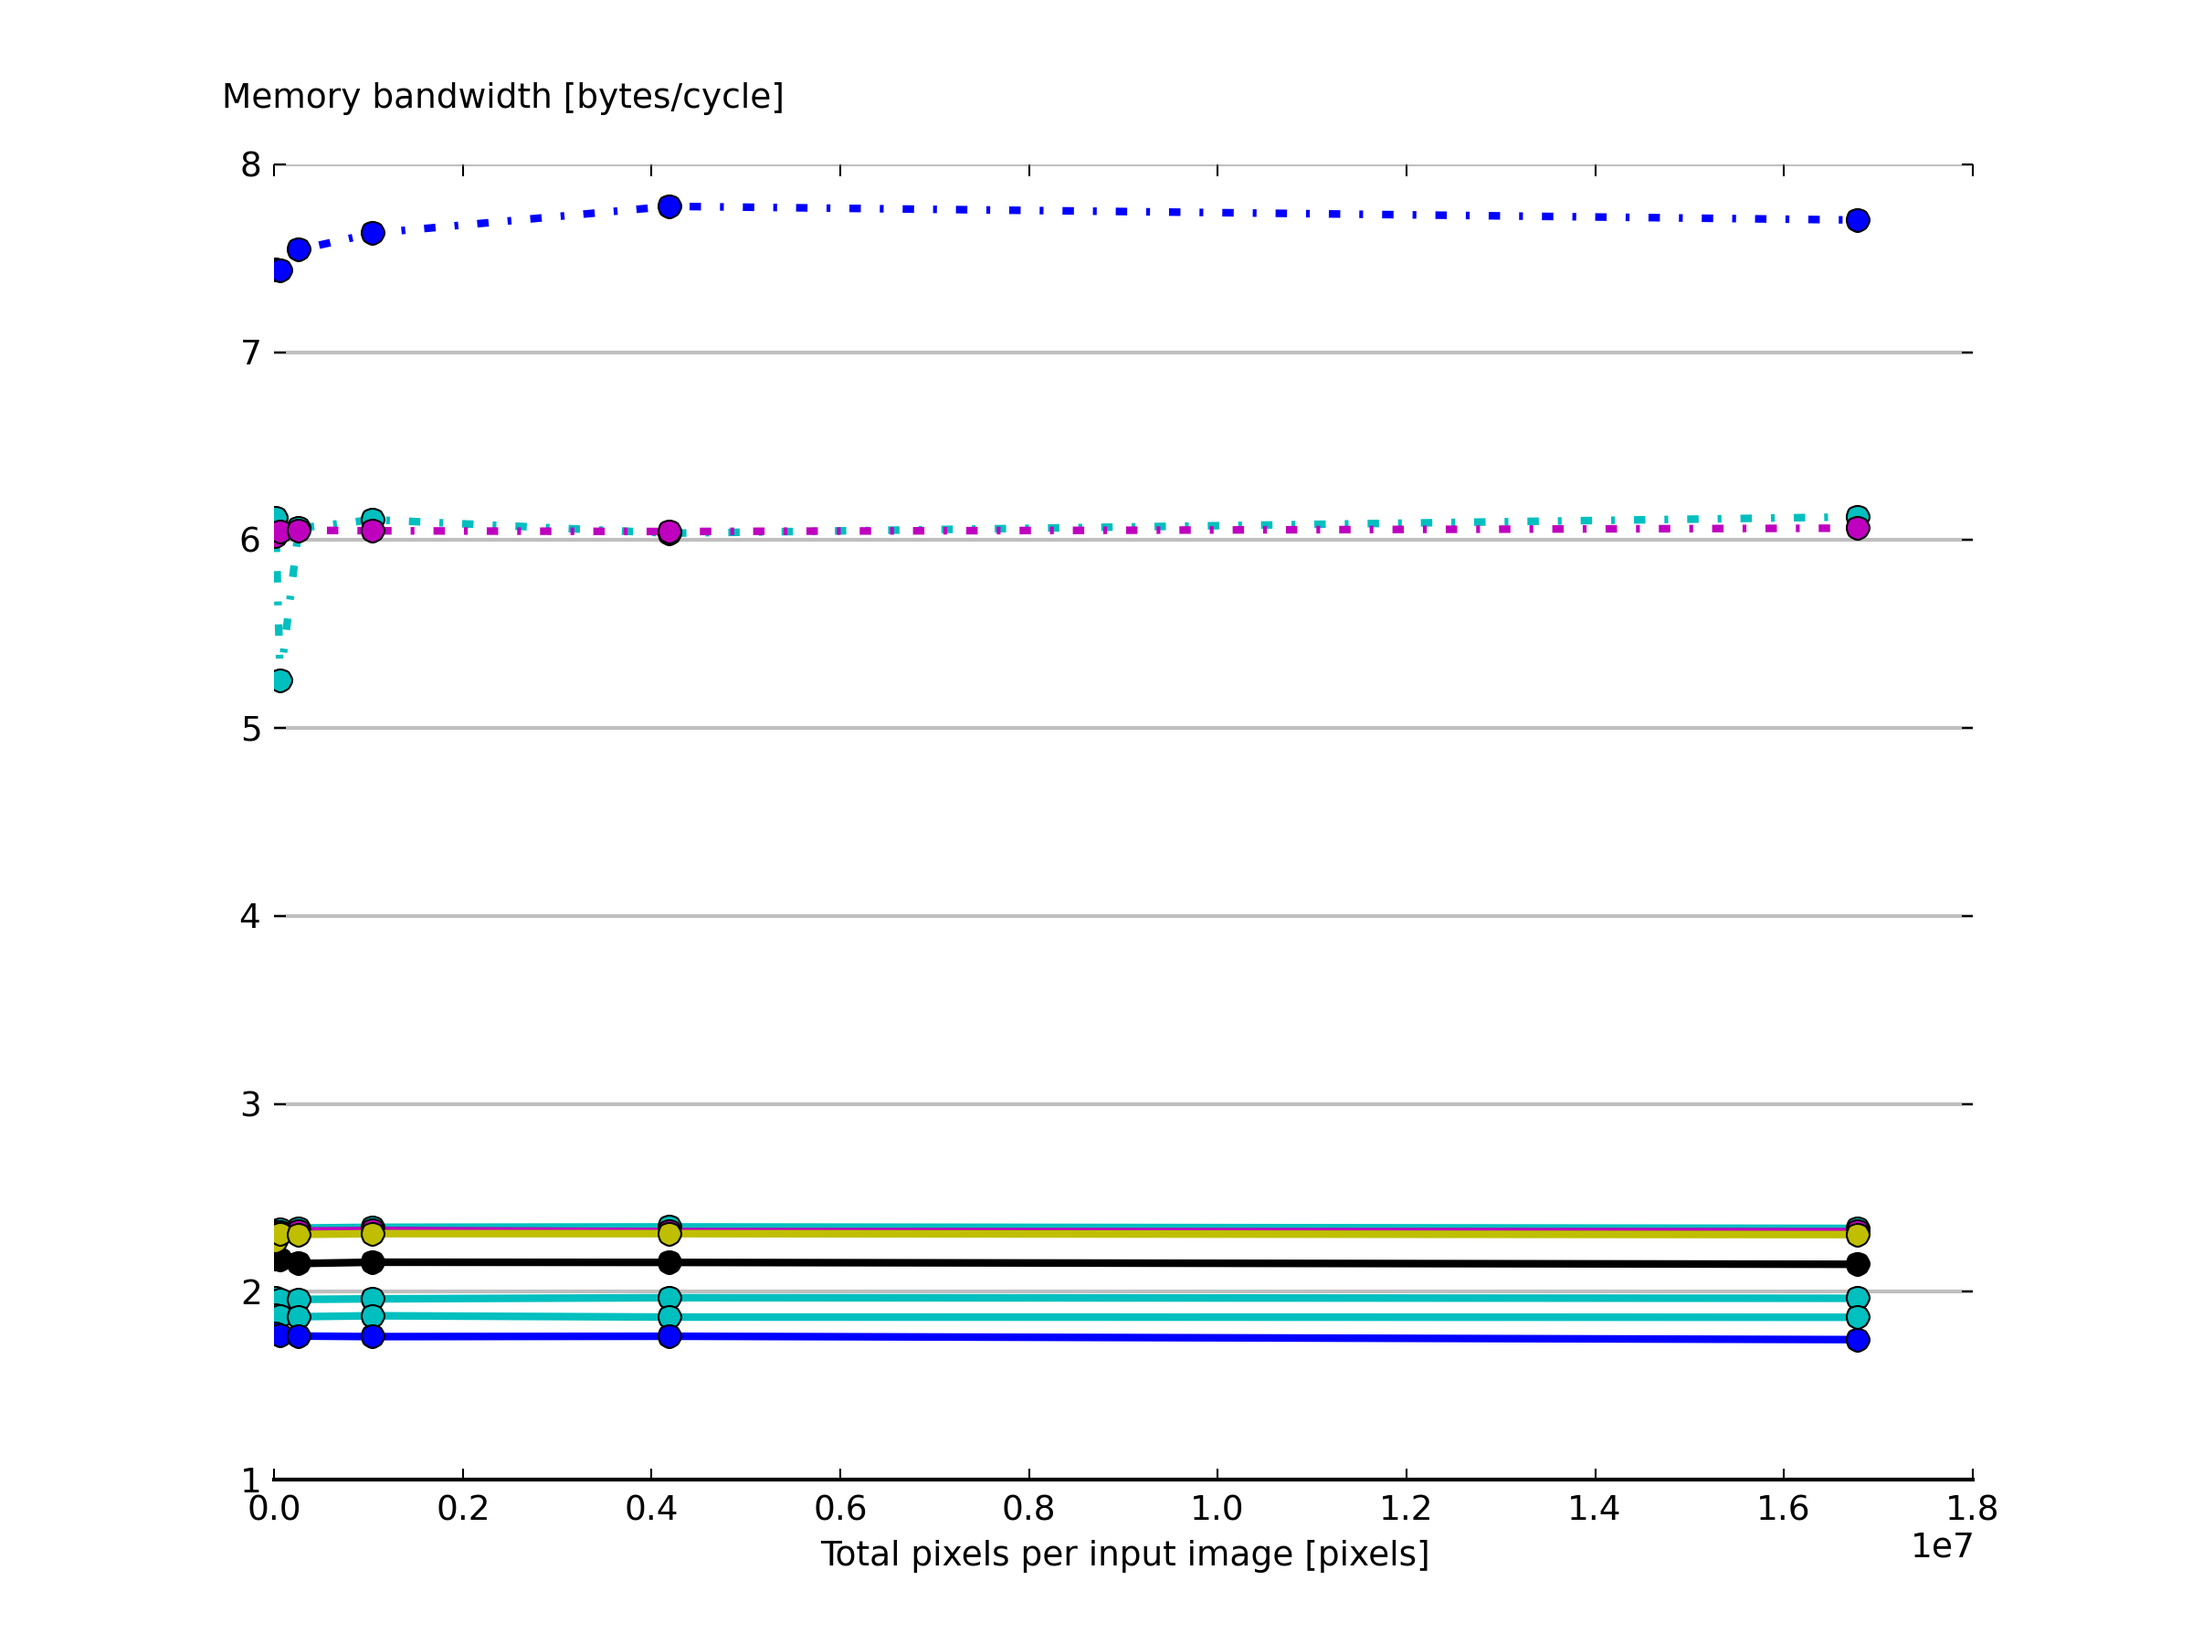
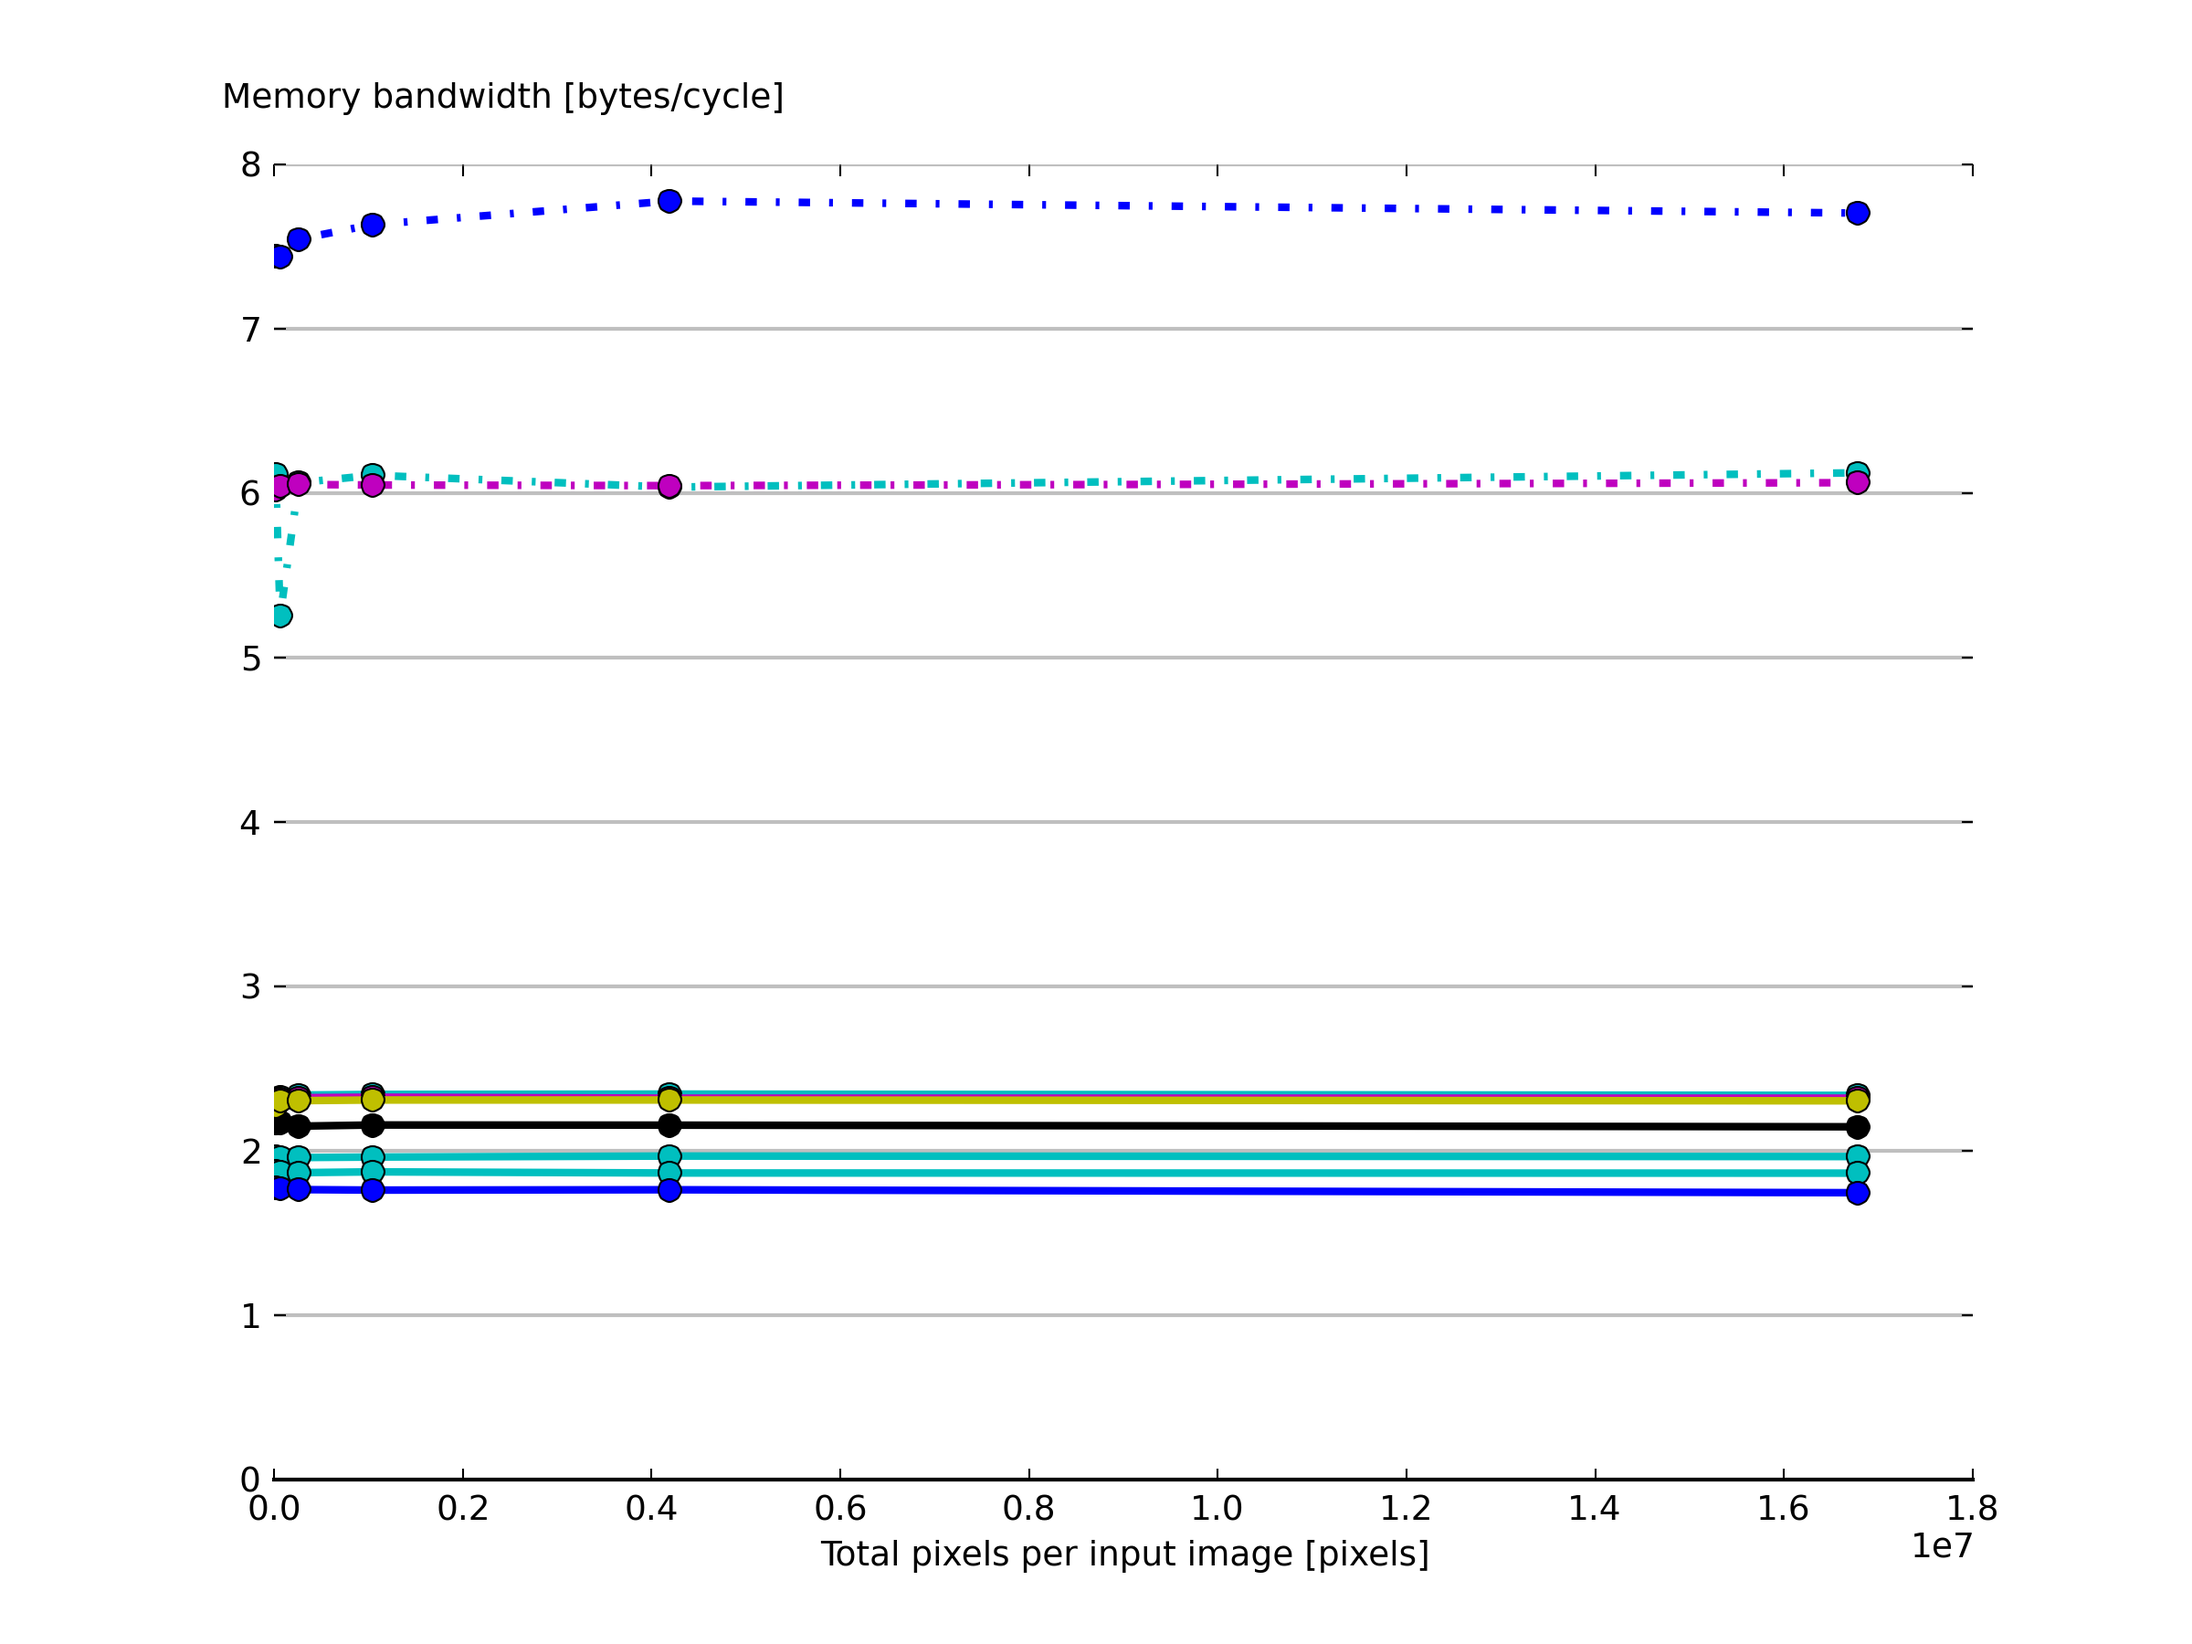
axis scaling

diff --git a/benchmarks_logs/full_program/bandwidth.py b/benchmarks_logs/full_program/bandwidth.py
@@ -71,7 +71,7 @@ plt.plot(xvals, yvals10, 'mo-', linewidth=2) #onestep
 plt.plot(xvals, yvals11, 'yo-', linewidth=2) #storegrey
 plt.gca().set_axisbelow(True)
 
-#plt.ylim([0, 1.0]) 
+plt.ylim([0, 8.0]) 
 
 plt.savefig('bandwidth.png', dpi=300)
 

diff --git a/benchmarks_logs/full_program_different_costfunction/bandwidth.py b/benchmarks_logs/full_program_different_costfunction/bandwidth.py
@@ -71,7 +71,7 @@ plt.plot(xvals, yvals10, 'mo-', linewidth=2) #onestep
 plt.plot(xvals, yvals11, 'yo-', linewidth=2) #storegrey
 plt.gca().set_axisbelow(True)
 
-#plt.ylim([0, 1.0]) 
+plt.ylim([0, 8.0]) 
 
 plt.savefig('bandwidth.png', dpi=300)
 

diff --git a/benchmarks_logs/full_program/performance.py b/benchmarks_logs/full_program/performance.py
@@ -71,7 +71,7 @@ plt.plot(xvals, yvals10, 'mo-', linewidth=2) #onestep
 plt.plot(xvals, yvals11, 'yo-', linewidth=2) #storegrey
 plt.gca().set_axisbelow(True)
 
-#plt.ylim([0, 1.0]) 
+plt.ylim([0, 2.5]) 
 
 plt.savefig('perf.png', dpi=300)
 

diff --git a/benchmarks_logs/weights_only/performance.py b/benchmarks_logs/weights_only/performance.py
@@ -71,7 +71,7 @@ plt.plot(xvals, yvals10, 'mo-', linewidth=2) #onestep
 plt.plot(xvals, yvals11, 'yo-', linewidth=2) #storegrey
 plt.gca().set_axisbelow(True)
 
-#plt.ylim([0, 1.0]) 
+plt.ylim([0, 1.5]) 
 
 plt.savefig('perf.png', dpi=300)
 

diff --git a/benchmarks_logs/full_program/operational_intensity.py b/benchmarks_logs/full_program/operational_intensity.py
@@ -68,7 +68,7 @@ plt.plot(xvals, yvals10, 'mo-', linewidth=2) #onestep
 plt.plot(xvals, yvals11, 'yo-', linewidth=2) #storegrey
 plt.gca().set_axisbelow(True)
 
-#plt.ylim([0, 1.0]) 
+plt.ylim([0, 0.3]) 
 
 plt.savefig('oi.png', dpi=300)
 

diff --git a/benchmarks_logs/weights_only/operational_intensity.py b/benchmarks_logs/weights_only/operational_intensity.py
@@ -68,7 +68,7 @@ plt.plot(xvals, yvals10, 'mo-', linewidth=2) #onestep
 plt.plot(xvals, yvals11, 'yo-', linewidth=2) #storegrey
 plt.gca().set_axisbelow(True)
 
-#plt.ylim([0, 1.0]) 
+plt.ylim([0, 1.8]) 
 
 plt.savefig('oi.png', dpi=300)
 

diff --git a/benchmarks_logs/weights_only_different_costfunction/operational_intensity.py b/benchmarks_logs/weights_only_different_costfunction/operational_intensity.py
@@ -68,7 +68,7 @@ plt.plot(xvals, yvals10, 'mo-', linewidth=2) #onestep
 plt.plot(xvals, yvals11, 'yo-', linewidth=2) #storegrey
 plt.gca().set_axisbelow(True)
 
-#plt.ylim([0, 1.0]) 
+plt.ylim([0, 2.7]) 
 
 plt.savefig('oi.png', dpi=300)
 
